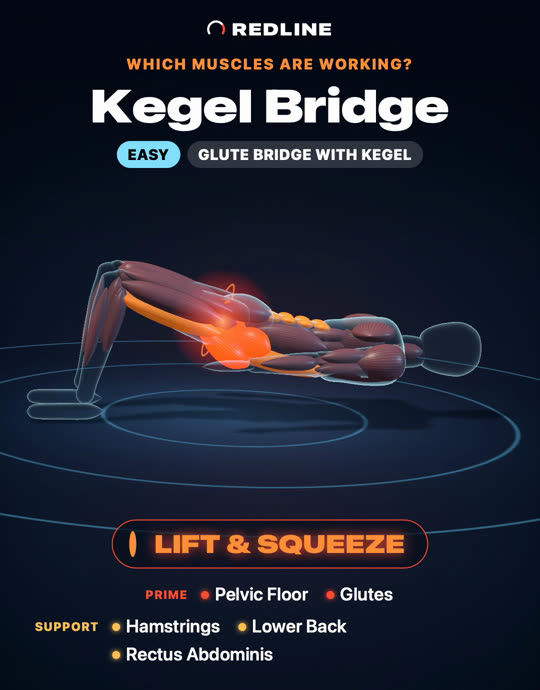
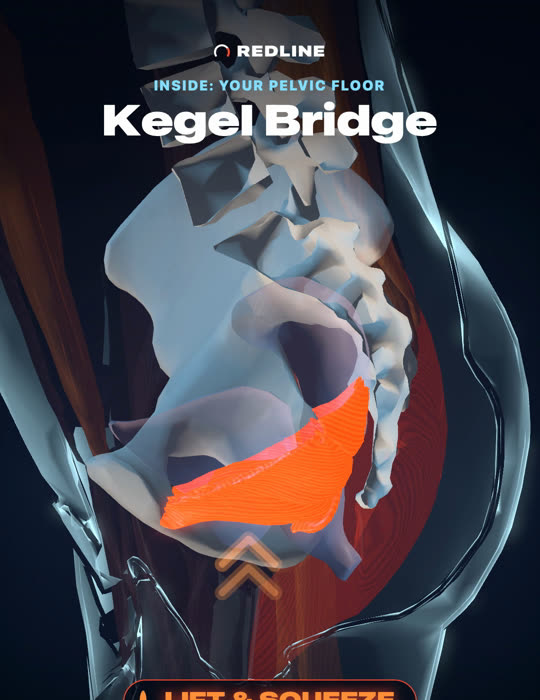
Redline: new anatomy hero image and copy

diff --git a/redline/index.html b/redline/index.html
@@ -1,2 +1,2 @@
 <!doctype html>
-<html lang="en"><head><meta charset="utf-8"><meta name="viewport" content="width=device-width,initial-scale=1"><title>Redline · Kegel Trainer for Men</title><meta name="description" content="Redline shows every pelvic floor exercise on a 3D anatomy model. Muscles glow as they work. 21 exercises, an 84-day plan and a voice coach."><link rel="icon" href="icon.png"><link rel="apple-touch-icon" href="icon.png"><style>:root{color-scheme:dark}*{box-sizing:border-box}body{margin:0;background:#07090F;color:#E6ECF5;font:17px/1.7 -apple-system,BlinkMacSystemFont,"Segoe UI",sans-serif}header,main,footer{max-width:960px;margin:auto;padding:24px}header{display:flex;justify-content:space-between;align-items:center;gap:20px;flex-wrap:wrap;border-bottom:1px solid #1E2536}a{color:#73D6FF;text-underline-offset:4px}nav{display:flex;gap:22px;flex-wrap:wrap}.brand{display:flex;align-items:center;gap:10px;font-weight:900;letter-spacing:3px;text-decoration:none;color:#fff}.brand img{width:30px;height:30px;border-radius:8px}.hero{display:grid;grid-template-columns:1.1fr .9fr;gap:40px;align-items:center;padding-top:28px}.kicker{color:#FF7A2E;font-weight:800;letter-spacing:2px;font-size:14px;margin:0}h1{font-size:clamp(42px,8vw,68px);line-height:1.02;letter-spacing:-2px;margin:10px 0 18px;background:linear-gradient(90deg,#FF3329,#FF7A2E);-webkit-background-clip:text;background-clip:text;color:transparent}.lead{font-size:19px;color:#C9D3E3}ul{padding-left:20px}li{margin-bottom:10px}li::marker{color:#FF3329}.pill{display:inline-block;margin-top:12px;padding:10px 18px;border-radius:999px;border:1px solid #FF3329;color:#fff;font-weight:700;font-size:15px}.hero>*{min-width:0}.shot{width:100%;height:auto;border-radius:22px;border:1px solid #1E2536;box-shadow:0 0 80px rgba(255,51,41,.18)}footer{border-top:1px solid #1E2536;font-size:14px;margin-top:44px;color:#93A0B8}a:focus-visible{outline:3px solid #FF7A2E;outline-offset:5px}@media(max-width:760px){.hero{grid-template-columns:1fr}}</style></head><body><header><a class="brand" href="./"><img src="icon.png" alt="">REDLINE</a><nav aria-label="Main navigation"><a href="support.html">Support</a><a href="privacy.html">Privacy</a></nav></header><main><section class="hero"><div><p class="kicker">KEGEL TRAINER FOR MEN</p><h1>See every squeeze.</h1><p class="lead">Redline shows every pelvic floor exercise on a 3D anatomy model. Muscles glow as they work, so you can see what should switch on and when.</p><ul><li>21 exercises in interactive 3D, from classic Kegels to bridges, squats and planks</li><li>An 84-day plan built from your goals, level and the time you have, getting harder as you progress</li><li>Voice coaching from Mia or Cole, plus haptic cues, so you can train with your eyes closed</li><li>No account and no tracking. Your training stays on your iPhone.</li></ul><span class="pill">Coming soon to the App Store</span></div><img class="shot" src="kegel-bridge.jpg" width="540" height="690" alt="Kegel Bridge in Redline: the pelvic floor and glutes glow red on a translucent 3D figure"></section></main><footer>© 2026 Ibrahim Haddad · <a href="mailto:bob.haddad.33@gmail.com?subject=Redline">bob.haddad.33@gmail.com</a> · Redline offers general fitness guidance, not medical advice.</footer></body></html>
+<html lang="en"><head><meta charset="utf-8"><meta name="viewport" content="width=device-width,initial-scale=1"><title>Redline · Kegel Trainer for Men</title><meta name="description" content="Redline shows every pelvic floor exercise on a real 3D anatomy model. Muscles glow as they work. 21 exercises, an 84-day plan and a voice coach."><link rel="icon" href="icon.png"><link rel="apple-touch-icon" href="icon.png"><style>:root{color-scheme:dark}*{box-sizing:border-box}body{margin:0;background:#07090F;color:#E6ECF5;font:17px/1.7 -apple-system,BlinkMacSystemFont,"Segoe UI",sans-serif}header,main,footer{max-width:960px;margin:auto;padding:24px}header{display:flex;justify-content:space-between;align-items:center;gap:20px;flex-wrap:wrap;border-bottom:1px solid #1E2536}a{color:#73D6FF;text-underline-offset:4px}nav{display:flex;gap:22px;flex-wrap:wrap}.brand{display:flex;align-items:center;gap:10px;font-weight:900;letter-spacing:3px;text-decoration:none;color:#fff}.brand img{width:30px;height:30px;border-radius:8px}.hero{display:grid;grid-template-columns:1.1fr .9fr;gap:40px;align-items:center;padding-top:28px}.kicker{color:#FF7A2E;font-weight:800;letter-spacing:2px;font-size:14px;margin:0}h1{font-size:clamp(42px,8vw,68px);line-height:1.02;letter-spacing:-2px;margin:10px 0 18px;background:linear-gradient(90deg,#FF3329,#FF7A2E);-webkit-background-clip:text;background-clip:text;color:transparent}.lead{font-size:19px;color:#C9D3E3}ul{padding-left:20px}li{margin-bottom:10px}li::marker{color:#FF3329}.pill{display:inline-block;margin-top:12px;padding:10px 18px;border-radius:999px;border:1px solid #FF3329;color:#fff;font-weight:700;font-size:15px}.hero>*{min-width:0}.shot{width:100%;height:auto;border-radius:22px;border:1px solid #1E2536;box-shadow:0 0 80px rgba(255,51,41,.18)}footer{border-top:1px solid #1E2536;font-size:14px;margin-top:44px;color:#93A0B8}a:focus-visible{outline:3px solid #FF7A2E;outline-offset:5px}@media(max-width:760px){.hero{grid-template-columns:1fr}}</style></head><body><header><a class="brand" href="./"><img src="icon.png" alt="">REDLINE</a><nav aria-label="Main navigation"><a href="support.html">Support</a><a href="privacy.html">Privacy</a></nav></header><main><section class="hero"><div><p class="kicker">KEGEL TRAINER FOR MEN</p><h1>See every squeeze.</h1><p class="lead">Redline shows every pelvic floor exercise on a real 3D anatomy model. Muscles glow as they work, and the pelvic cross-section shows the pelvic floor lift with every squeeze.</p><ul><li>21 exercises in interactive 3D, from classic Kegels to bridges, squats and planks</li><li>An 84-day plan built from your goals, level and the time you have, getting harder as you progress</li><li>Voice coaching from Mia or Cole, plus haptic cues, so you can train with your eyes closed</li><li>No account and no tracking. Your training stays on your iPhone.</li></ul><span class="pill">Coming soon to the App Store</span></div><img class="shot" src="kegel-bridge.jpg" width="540" height="700" alt="Redline's pelvic cross-section during a Kegel Bridge: the pelvic floor glows orange as it lifts"></section></main><footer>© 2026 Ibrahim Haddad · <a href="mailto:bob.haddad.33@gmail.com?subject=Redline">bob.haddad.33@gmail.com</a> · Redline offers general fitness guidance, not medical advice.</footer></body></html>
